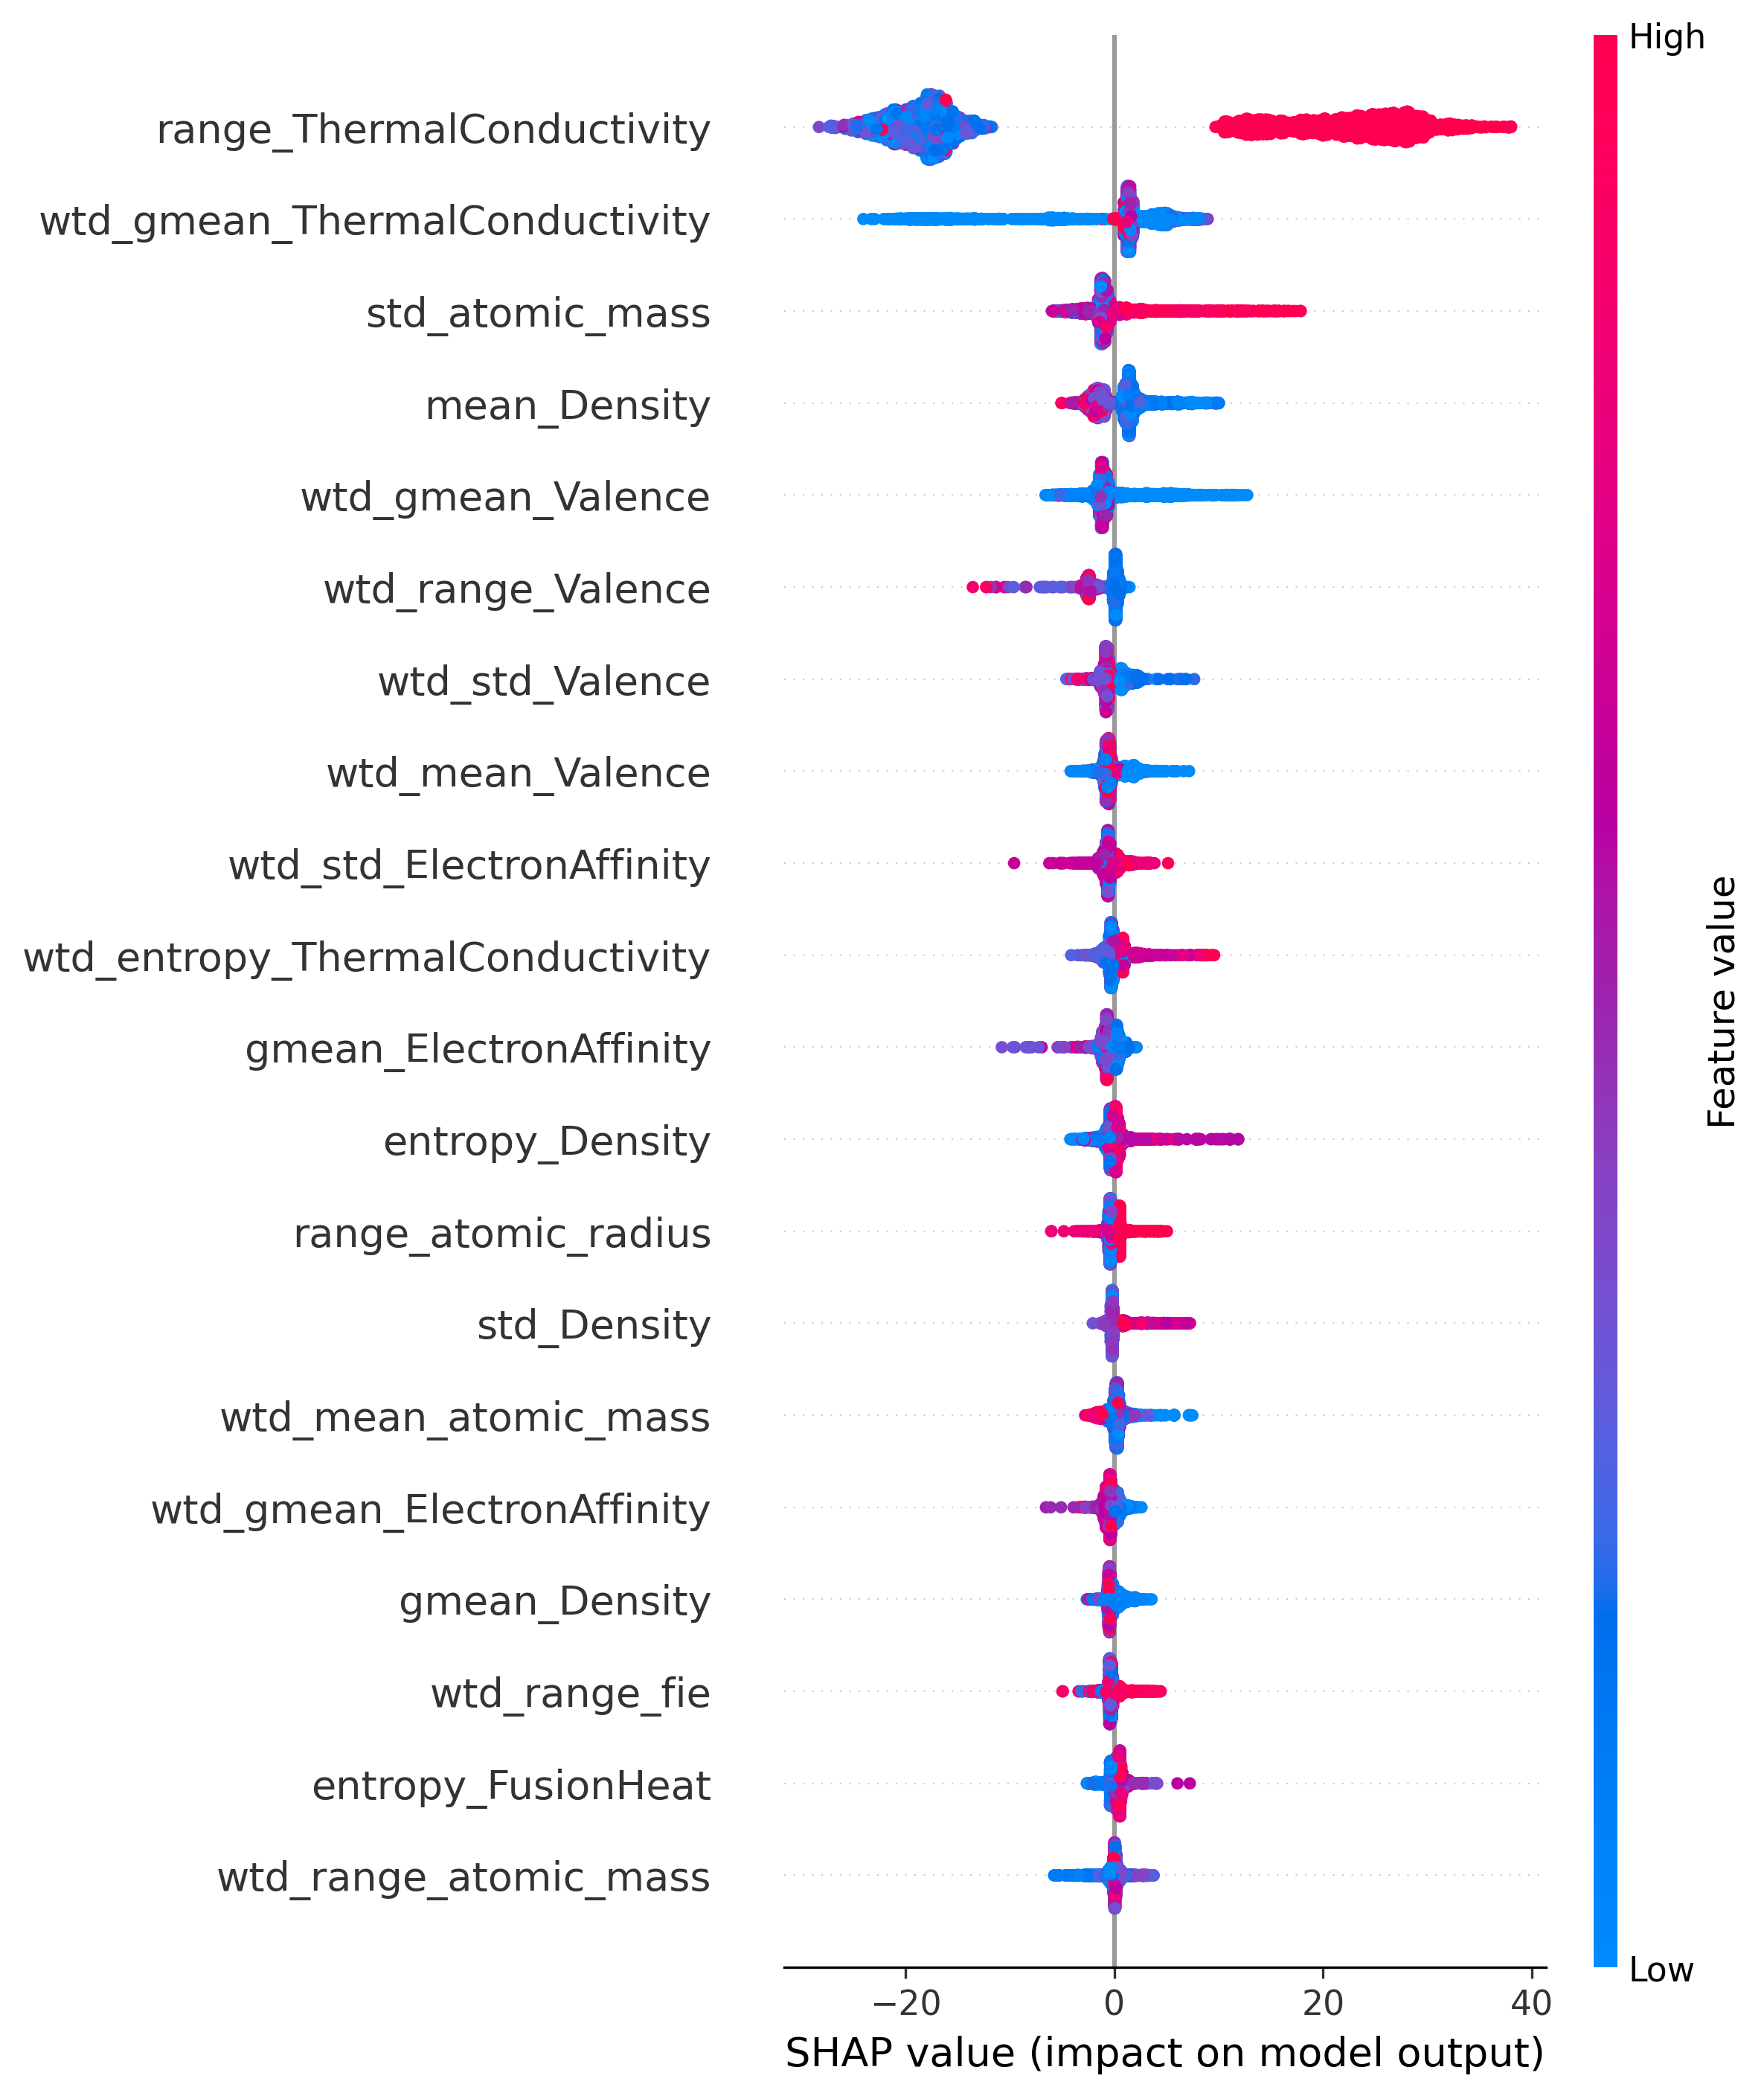
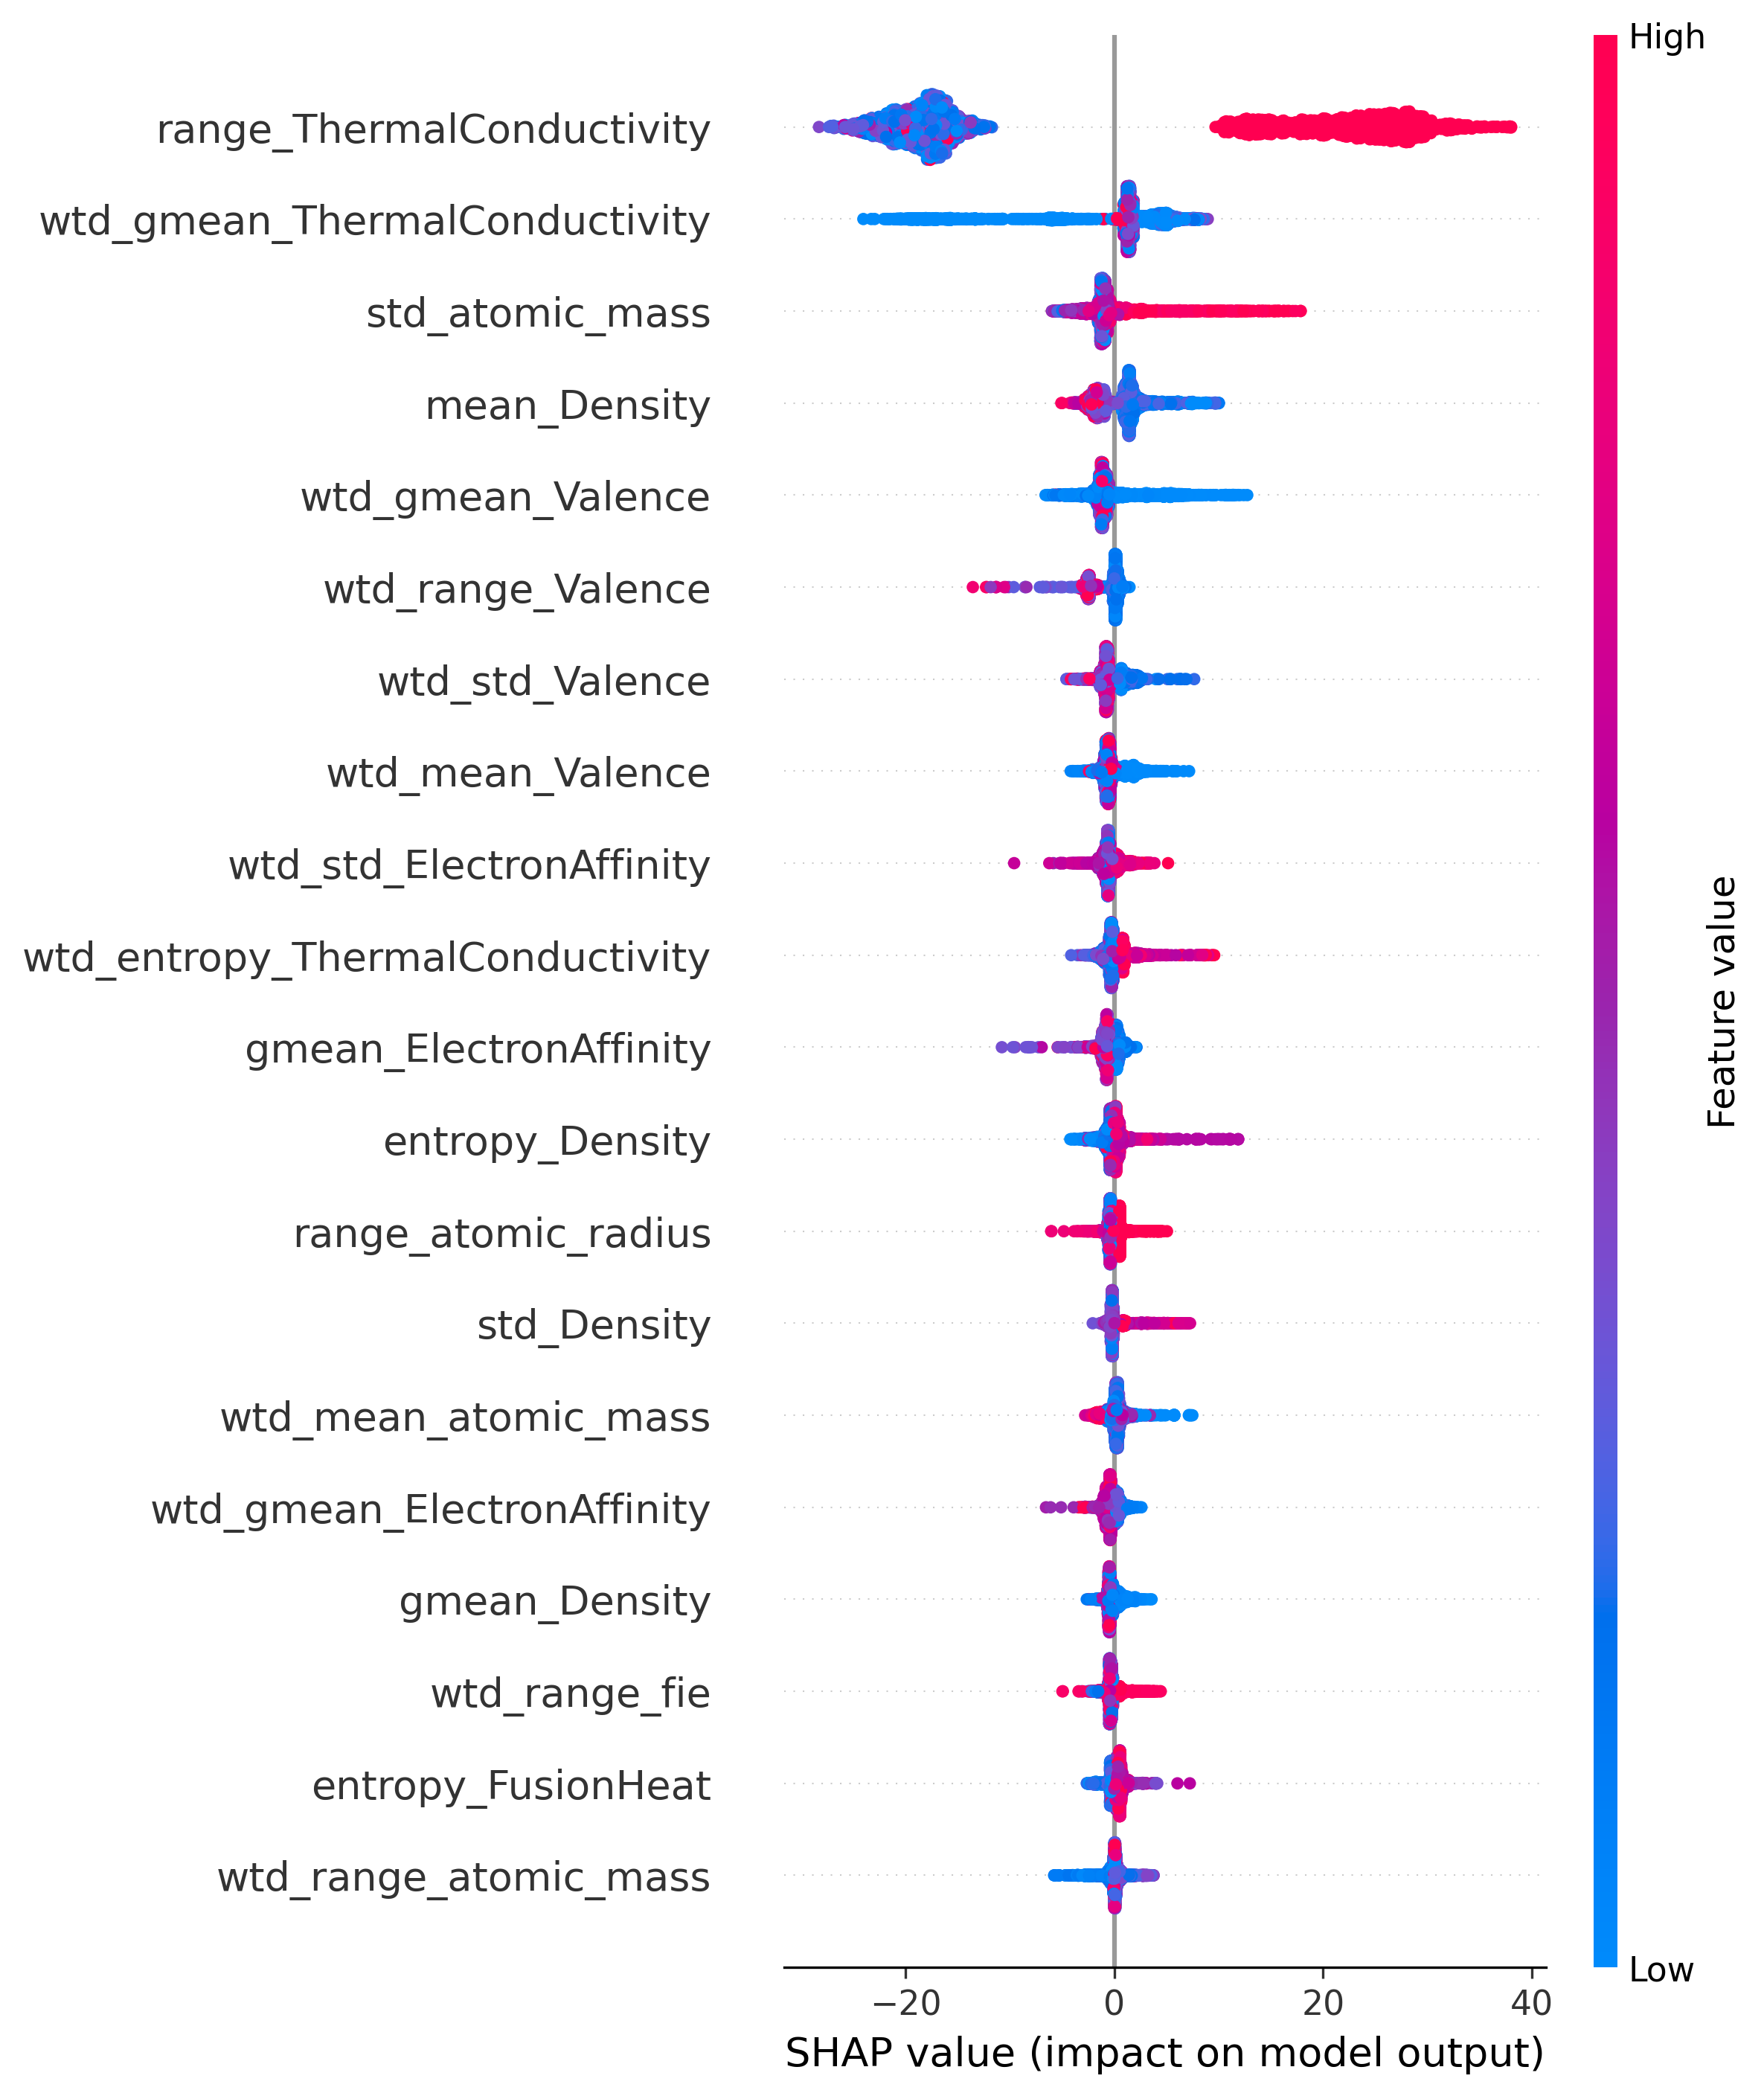
Finalize project documentation and research report
- Added the complete research report (PDF and DOCX)
- Updated the project title in the notebook and README
- Refined project documentation and repository structure
- Updated figures and finalized visualizations
- Prepared the repository for portfolio presentation

Changed region(s): [[0.593, 0.3124, 0.6554, 0.9059], [0.593, 0.0937, 0.6554, 0.2812], [0.4682, 0.0312, 0.5618, 0.0937]]

diff --git a/README.md b/README.md
@@ -1,10 +1,19 @@
-# Predicting Superconducting Critical Temperature Using Machine Learning
+# Machine Learning-Based Prediction of Superconducting Critical Temperature Using Material Descriptors
 
 ## Project Overview
 
 This project develops and compares multiple machine learning regression models to predict the superconducting critical temperature (Tc) of materials using experimentally measured material descriptors from the UCI Superconductivity Dataset.
 
 The predictive performance of Linear Regression, Random Forest, Tuned Random Forest, and XGBoost is evaluated using standard regression metrics. The best-performing model is further interpreted using SHAP (SHapley Additive exPlanations) to identify the most influential material descriptors and improve model transparency.
+
+---
+
+## Project Highlights
+
+- Developed four supervised regression models for superconducting critical temperature prediction.
+- Achieved an R² score of **0.9289** using an optimized Random Forest model.
+- Applied SHAP explainability to interpret model predictions.
+- Compared model performance using MAE, RMSE, and R² Score.
 
 ---
 
@@ -67,6 +76,17 @@ The optimized Random Forest model achieved the best predictive performance with 
 
 ---
 
+## Key Results
+
+- Best Model: Tuned Random Forest
+- R² Score: **0.9289**
+- RMSE: **9.0468**
+- MAE: **5.1732**
+
+The optimized Random Forest achieved the highest predictive performance while maintaining strong generalization capability. SHAP analysis identified the most influential material descriptors contributing to superconducting critical temperature predictions.
+
+---
+
 ## Technologies Used
 
 - Python
@@ -87,11 +107,13 @@ The optimized Random Forest model achieved the best predictive performance with 
 
 ```text
 Predict-Physical-Quantities-Using-Machine-Learning/
-│
 ├── data/
 ├── figures/
 ├── models/
 ├── notebooks/
+├── report/
+│   ├── Research_Report.pdf
+│   └── Research_Report.docx
 ├── src/
 ├── README.md
 ├── requirements.txt
@@ -102,11 +124,11 @@ Predict-Physical-Quantities-Using-Machine-Learning/
 
 ## Future Work
 
-- Develop a Streamlit web application for interactive predictions
-- Investigate deep learning approaches for superconductivity prediction
-- Explore physics-informed machine learning methods
-- Improve feature engineering and hyperparameter optimization
-- Extend the framework to predict other material properties
+- Develop an interactive Streamlit application for superconductivity prediction.
+- Investigate deep learning models for superconducting materials.
+- Explore Physics-Informed Machine Learning (PIML) techniques.
+- Evaluate additional ensemble learning algorithms such as CatBoost and LightGBM.
+- Extend the framework to predict other material properties.
 
 ---
 
@@ -114,12 +136,12 @@ Predict-Physical-Quantities-Using-Machine-Learning/
 
 **Kaveri Yadav**
 
-**M.Sc. Physics**
+Master of Science in Physics
 
-**Research Interests**
+### Research Interests
 
 - Computational Materials Science
 - Machine Learning
-- Explainable AI (XAI)
+- Explainable Artificial Intelligence (XAI)
 - AI Research
 - Quantitative Modeling